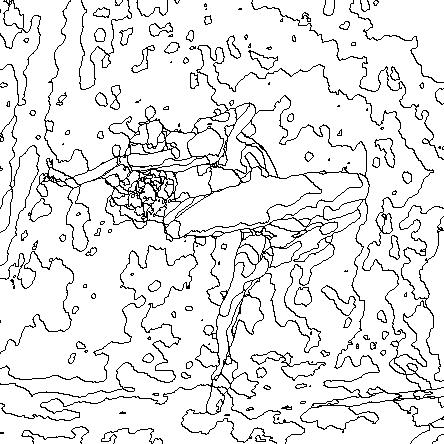
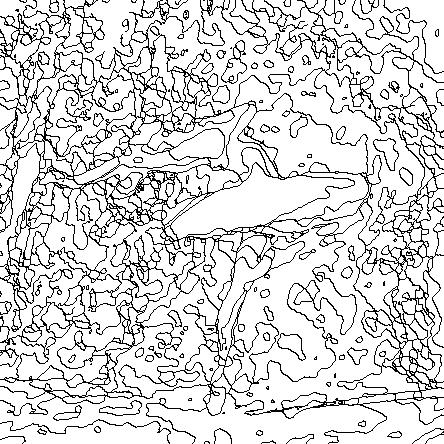
Remove edges from PNB Image

Changed region(s): [[0.0, 0.0, 1.0, 1.0], [0.9077, 0.9955, 0.9369, 1.0], [0.8784, 0.9662, 0.9077, 0.9955]]

diff --git a/pbnify.py b/pbnify.py
@@ -1,5 +1,4 @@
 #! /usr/bin/env python3
-import matplotlib.pyplot as plt
 import numpy as np
 from time import time
 
@@ -19,17 +18,15 @@ def PBNify(image_path, clusters=20, pre_blur=True):
     if pre_blur:
         image = process.blur_image(image)
 
-    # Must pass FP32 data to get_dominant_colors since faiss does not support uint8
     dominant_colors, quantized_labels, bar_image = dominant_cluster.get_dominant_colors(
         image, n_clusters=clusters, use_gpu=True, plot=True)
 
+    # Create final PBN image
     smooth_labels = process.smoothen(quantized_labels.reshape(image.shape[:-1]))
-    smooth_image = dominant_colors[smooth_labels].reshape(image.shape)
+    pbn_image = dominant_colors[smooth_labels].reshape(image.shape)
 
-    edge_image = process.edge_mask(smooth_image)
-
-    pbn_image = process.merge_mask(smooth_image, edge_image)
-    outline_image = process.outline(smooth_image)
+    # Create outline image
+    outline_image = process.outline(pbn_image)
 
     return pbn_image, outline_image
 

diff --git a/dominant_cluster.py b/dominant_cluster.py
@@ -46,6 +46,7 @@ def compute_cluster_assignment(centroids, data):
 
 
 def get_dominant_colors(image, n_clusters=10, use_gpu=True, plot=True):
+    # Must pass FP32 data to kmeans_faiss since faiss does not support uint8
     flat_image = image.reshape(
         (image.shape[0] * image.shape[1], 3)).astype(np.float32)
 
